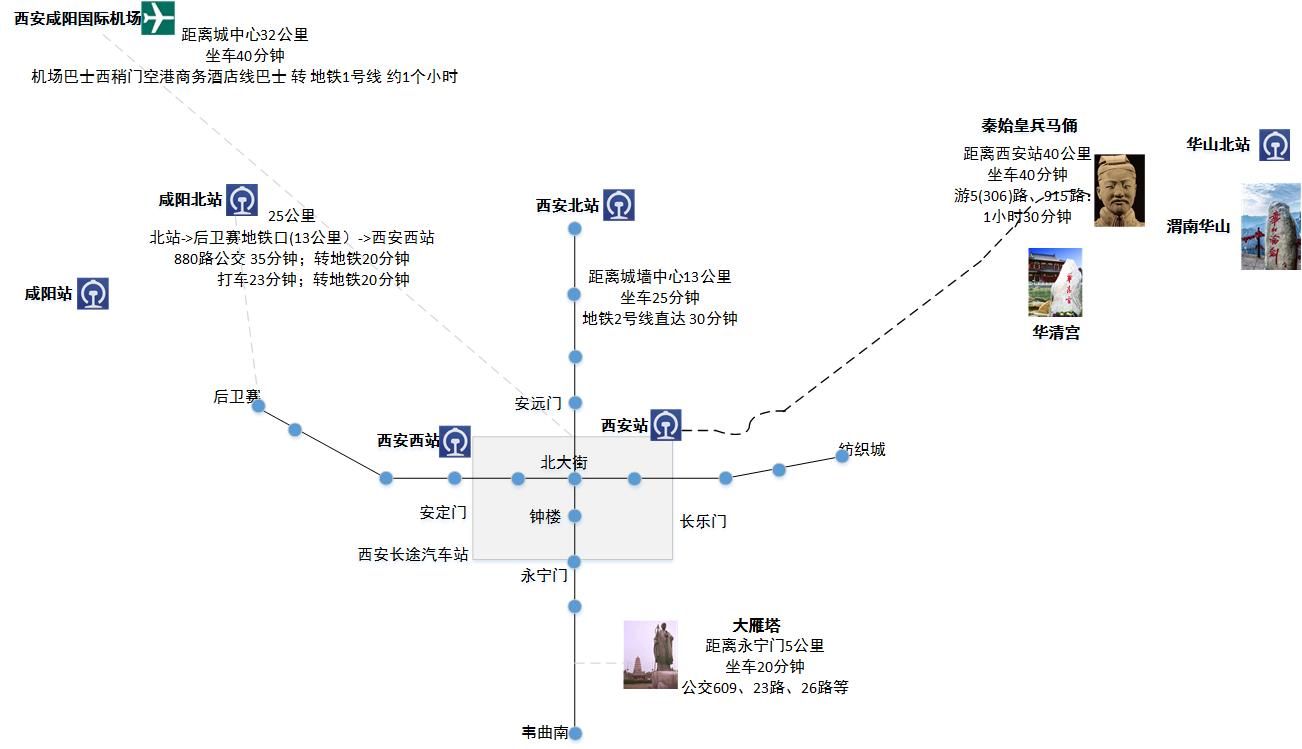
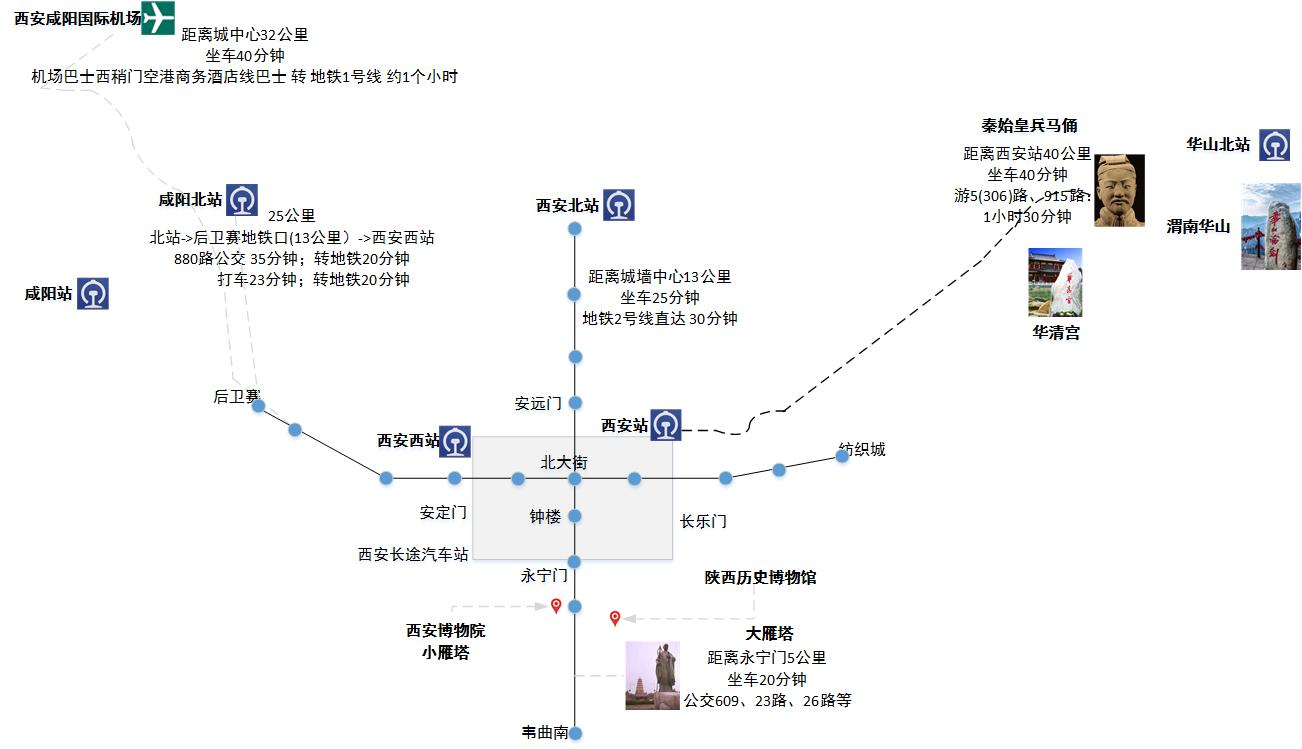
add plan

diff --git a/travel/xian.md b/travel/xian.md
@@ -3,7 +3,7 @@ layout: default
 ---
 
 2019.04.10
-
++
 ## 1. 景点
 
 总体线路
@@ -20,10 +20,30 @@ layout: default
 + 周长:13.74千米，建议游玩时间: 1-3小时
 + 历史:
 
-### 1.2 大雁塔
+### 1.2 陕西历史博物馆
 
-### 1.3 秦始皇兵马俑
+### 1.3 大雁塔
 
-### 1.4 华清宫
+### 1.4 秦始皇兵马俑
 
-### 1.5 华山
+### 1.5 华清宫
+
+### 1.6 华山
+
+## 2. 行程计划
+
+### 方案一:　纯西安市区，深入感受古城魅力
+1. Day1: 中午到达西安北站->市区住宿->晚上逛西安古城墙，钟鼓楼，回民街小吃
+2. Day2: 西安站出发坐车去兵马俑->参观兵马俑->下午或晚上参观华清宫->返回市区
+3. Day3: 早上陕西历史博物馆->大雁塔->西安博物院（小雁塔）等景区
+4. Day4: 西安市区现代特色
+5. Day5: 早餐->返程
+
+### 方案二: 市区景点 + 华山
+1. Day1: 中午到达西安北站->市区住宿->晚上逛西安古城墙，钟鼓楼，回民街小吃
+2. Day2: 西安站出发坐车去兵马俑->参观兵马俑->下午或晚上参观华清宫->返回市区
+3. Day3: 早上陕西历史博物馆，大雁塔->下午西安北坐车去华山北，晚上爬华山，晚上在华山等日出
+4. Day4: 看日出->中午或下午返回西安市区休息
+5. Day5: 早餐->返程
+(看日出需要夜爬，晚上也需要等待，最好有同伴一起)
+
